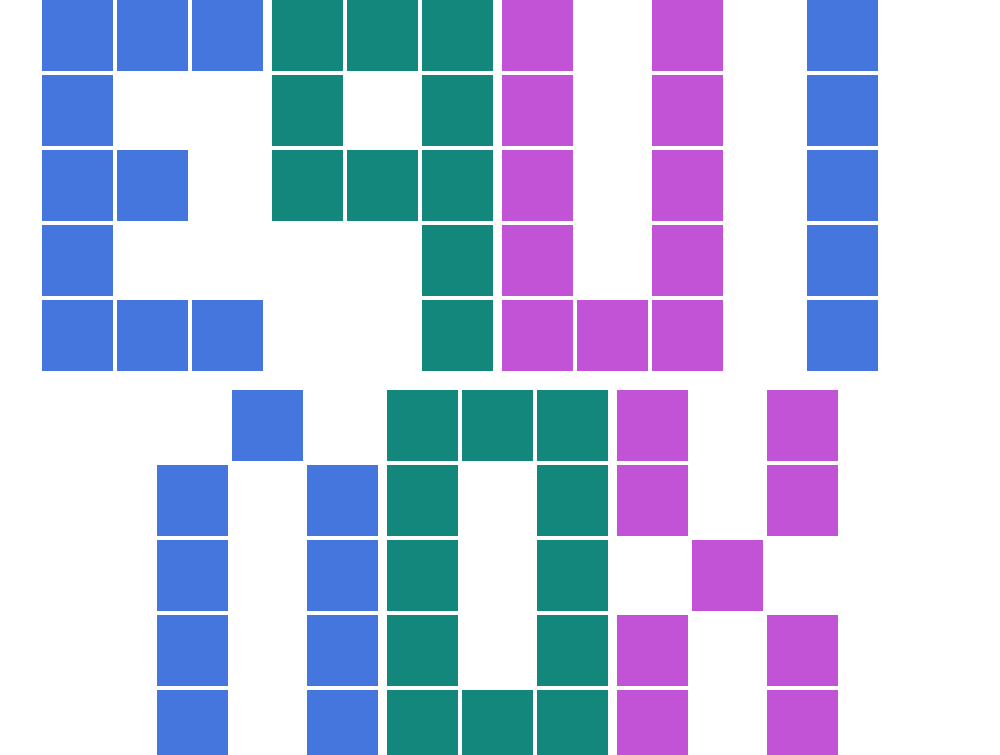
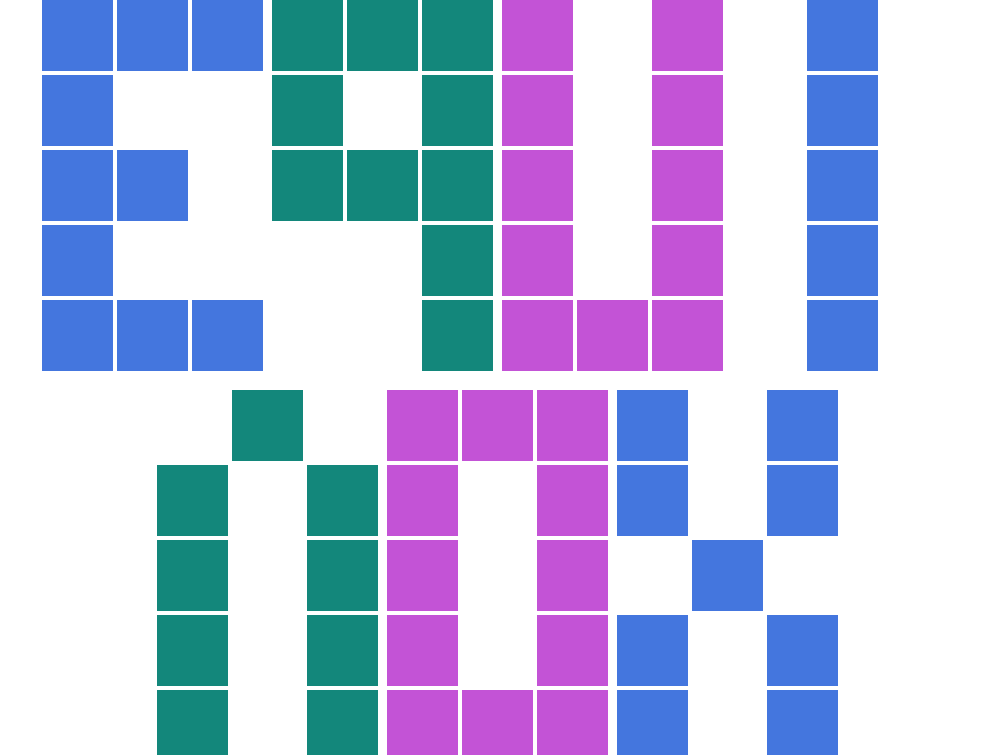
post thumbnails light/dark

Changed region(s): [[0.155, 0.5179, 0.837, 1.0]]

diff --git a/themes/tabi/templates/macros/list_posts.html b/themes/tabi/templates/macros/list_posts.html
@@ -100,12 +100,27 @@ paginator="", pinned_first=false, current_page=1) %}
                
                 <a href="{{ post.permalink }}">
                     {% if post.extra.local_image %}
-                    {% set meta = get_image_metadata(path=post.extra.local_image, allow_missing=true) %}
-                    <img class="thumbnail-image" alt="{{ post.extra.local_image }}"
-                        src="{{ get_url(path=post.extra.local_image) }}" {% if meta.width %}width="{{ meta.width }}" {%
+
+                    {% set image_path = post.extra.local_image %}
+
+                    {% set dark_image_path = post.extra.local_image | replace(from=".svg", to="-dark.svg") | replace(from=".jpg", to="-dark.jpg") | replace(from=".png", to="-dark.png") %}
+                    {% set dark_image_meta = get_image_metadata(path=dark_image_path, allow_missing=true) %}
+                    
+                    {% if not dark_image_meta %}
+                        {% set dark_image_path = image_path  %}
+                    {% endif %}
+                    {% set meta = get_image_metadata(path=image_path, allow_missing=true) %}
+                    <img class="thumbnail-image img-light" alt="{{ image_path }}"
+                        src="{{ image_path }}" {% if meta.width %}width="{{ meta.width }}" {%
                         endif %} {% if meta.height %}height="{{ meta.height }}" {% endif %}>
-                    {% elif post.extra.remote_image %}
-                    <img class="thumbnail-image" alt="{{ post.extra.remote_image }}"
+                    <img class="thumbnail-image img-dark" alt="{{ dark_image_path }}"
+                        src="{{ dark_image_path }}" {% if meta.width %}width="{{ meta.width }}" {%
+                        endif %} {% if meta.height %}height="{{ meta.height }}" {% endif %}>
+                    
+                        {% elif post.extra.remote_image %}
+                    
+                    
+                        <img class="thumbnail-image" alt="{{ post.extra.remote_image }}"
                         src="{{ post.extra.remote_image }}">
                     {% endif %}
                 </a>

diff --git a/themes/tabi/templates/partials/nav.html b/themes/tabi/templates/partials/nav.html
@@ -2,8 +2,8 @@
     <nav class="navbar">
         <div class="nav-title">
             <a class="home-logo" href="{{ get_url(path='/', lang=lang) }}">
-            <img src="/img/logo-light.svg" alt="Logo Light" class="logo logo-light">
-            <img src="/img/logo-dark.svg" alt="Logo Dark" class="logo logo-dark">  
+            <img src="/svg/logo.svg" alt="Logo Light" class="logo img-light">
+            <img src="/svg/logo-dark.svg" alt="Logo Dark" class="logo img-dark">  
             </a>     
             <a class="home-title" href="{{ get_url(path='/', lang=lang) }}">
                 {{ config.title }}</a>

diff --git a/static/css/custom.css b/static/css/custom.css
@@ -30,21 +30,23 @@
      /* Adjust as needed */
 }
 
-.logo-light {
+.img-light {
     display: block;
     /* Show light logo by default */
 }
 
-.logo-dark {
+.img-dark {
     display: none;
     /* Hide dark logo initially */
 }
 
-html[data-theme='dark'] .logo-light {
+
+
+html[data-theme='dark'] .img-light {
     display: none;
 }
 
-html[data-theme='dark'] .logo-dark {
+html[data-theme='dark'] .img-dark {
     display: block;
 }
 

diff --git a/themes/tabi/sass/parts/_posts_list.scss b/themes/tabi/sass/parts/_posts_list.scss
@@ -17,6 +17,7 @@ $padding: 2.5rem;
         margin: 0;
         margin-inline: auto;  // Centred by default.
         max-width: 70%;
+        width: 100%;
     }
 
     li.date + li.post-thumbnail .thumbnail-image {

diff --git a/img_generator/generate_logo-multiline.py b/img_generator/generate_logo-multiline.py
@@ -1,18 +1,33 @@
 import sys
 from PIL import Image, ImageDraw
+import argparse
 
 # Check for correct usage
 if len(sys.argv) < 2:
-    print("Usage: python generate_logo.py <text>")
+    print("Usage: python generate_logo-multiline.py <text>")
     sys.exit(1)
 
 # Fixed image width and spacing
-img_width = 1000
-spacing = 5  # Space between squares
+# Parse command line arguments
+parser = argparse.ArgumentParser(description="Generate a logo from text.")
+parser.add_argument("text", help="Text to generate the logo from")
+parser.add_argument("--width", type=int, default=1000, help="Width of the image")
+parser.add_argument("--spacing", type=int, default=5, help="Spacing between squares")
+parser.add_argument(
+    "--always_blue_first",
+    action="store_true",
+    help="Always use blue color for the first square",
+)
+args = parser.parse_args()
+
+# Assign parsed arguments to variables
+img_width = args.width
+spacing = args.spacing
+ALWAYS_BLUE_FIRST = args.always_blue_first
 
 # Split text into lines
 text = sys.argv[1].upper()  # Convert input text to uppercase
-lines = text.split("-")
+lines = text.split("_")
 max_line_length = max(len(line) for line in lines)
 
 # Space between lines multiplier
@@ -250,19 +265,27 @@ y_offset = (
     )
 ) // 2  # Vertical centering
 
-for line in lines:
+n = 0
+for i, line in enumerate(lines):
     line_width = len(line) * (3 * square_size + 4 * spacing) - spacing
     x_offset = (img_width - line_width) // 2  # Horizontal centering for each line
-    for i, letter in enumerate(line):
+    for j, letter in enumerate(line):
+
         grid = get_letter_grid(letter)
         for y, x in grid:
-            color = colors[(i) % len(colors)]
+            color = (
+                colors[j % len(colors)]
+                if ALWAYS_BLUE_FIRST
+                else colors[n % len(colors)]
+            )
+
             x1 = x_offset + x * (square_size + spacing)
             y1 = y_offset + y * (square_size + spacing)
             x2 = x1 + square_size
             y2 = y1 + square_size
             draw.rectangle([x1, y1, x2, y2], fill=color)
-        x_offset += 3 * square_size + 4 * spacing  # Add spacing between letters
+        x_offset += 3 * square_size + 4 * spacing
+        n += 1  # Add spacing between letters
     y_offset += (
         5 * (square_size + spacing) + line_spacing_multiplier * spacing
     )  # Move to next line with additional spacing

diff --git a/content/blog/20241225.md b/content/blog/20241225.md
@@ -1,13 +1,13 @@
 +++
 title = "Equinox v0.11.11"
 date = "2024-12-25"
-description = "Chex release 0.1.88 published."
+description = "Equinox v0.11.11 published."
 
 [taxonomies]
 tags = ["equinox","release"]
 
 [extra]
-local_image = "/img/equinox.png"
+local_image = "/svg/equinox.svg"
 +++
 
 [https://github.com/patrick-kidger/equinox/releases](https://github.com/patrick-kidger/equinox/releases)
